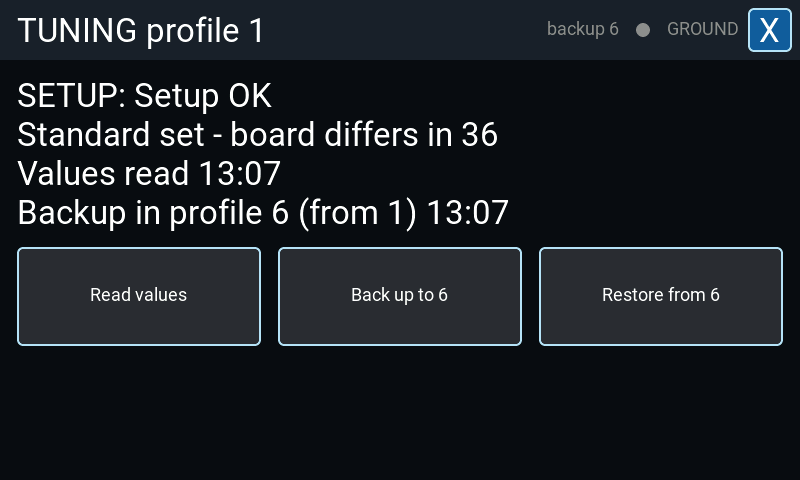
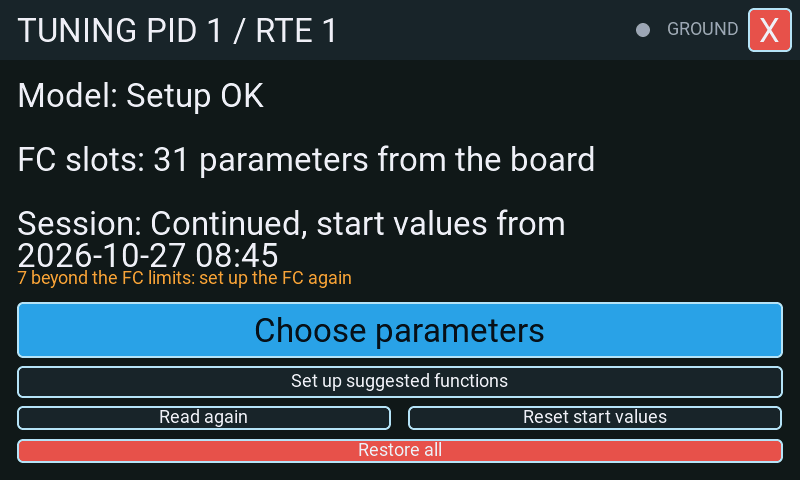
docs(dashboard): replace the historical ground-surface screenshot
The current ground surface at 800x480, English, with the session line
wrapped inside its row.

diff --git a/docs/dashboard/inflight-tuning.md b/docs/dashboard/inflight-tuning.md
@@ -82,7 +82,7 @@ follows the flight.
 
 ### On the ground, before the flight
 
-![Historical ground surface (previous palette)](../images/inflight/overlay-ground.png)
+![The ground surface: model check, FC slots, session, and the actions](../images/inflight/overlay-ground.png)
 
 Three status lines show **Model** (the setup verdict), **FC slots** (the number of parameters
 read from the board, plus skipped slots), and **Session** (continued or new, with the stored
